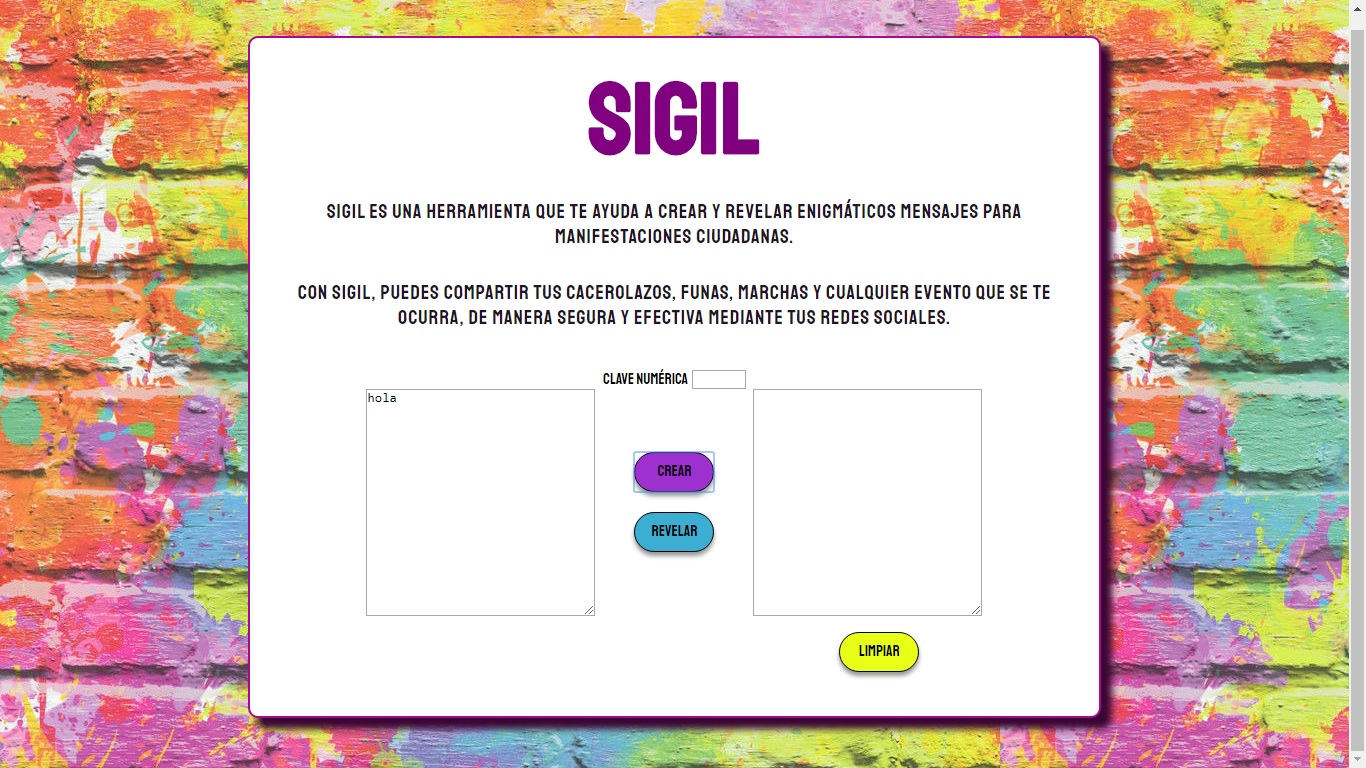
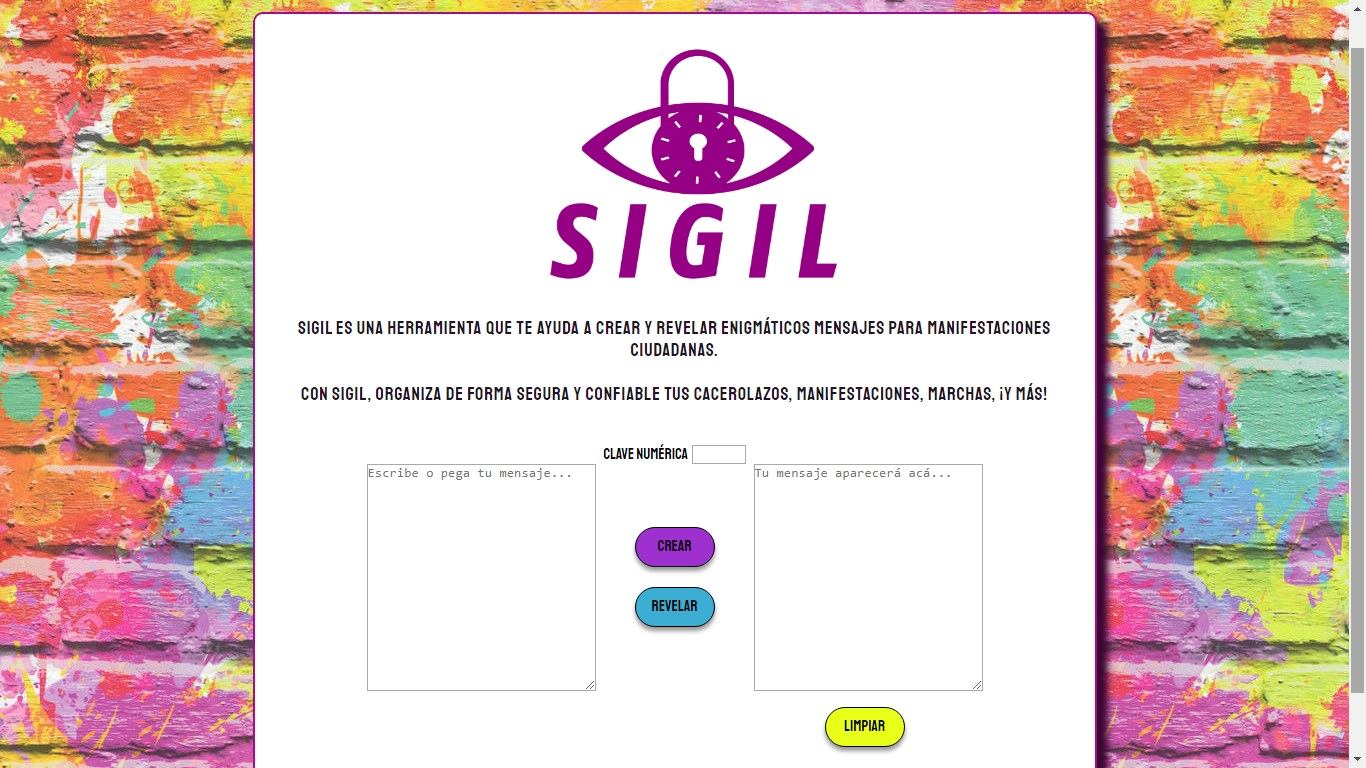
Actualizacion README y boton LIMPIAR en DOM y arreglos css

diff --git a/src/index.html b/src/index.html
@@ -13,7 +13,7 @@
 
     <!--Cabecera de bienvenida-->
     <section id="contentBox" class="content">
-    <img id="logoSigil" src="SigilFavicon.png" alt="Logo" width="300" height="233">
+    <img title="Sigil: manifestaciones seguras" id="logoSigil" src="SigilFavicon.png" alt="Logo" width="300" height="233">
 
         <!--Cabecera-->
         <div id="cabecera-txt" class="cabecera-style">
@@ -23,7 +23,7 @@
                     manifestaciones ciudadanas. 
                 </p>
                 <br>
-                <p class="appsummary2">Con Sigil, puedes organizar tus cacerolazos, manifestaciones, marchas, ¡y más!
+                <p class="appsummary2">Con Sigil, organiza de forma segura y confiable tus cacerolazos, manifestaciones, marchas, ¡y más!
                 </p>
             </header>
         </div>
@@ -57,7 +57,7 @@
                 <!--Box de texto 2-->
 
                 <div id="txtEnter2" class="text-box2">
-                    <textarea id="txtMsge2" class="box-right" cols="30" rows="15"
+                    <textarea title="Copia tu mensaje utilizando las teclas o el botón secundario del ratón." id="txtMsge2" class="box-right" cols="30" rows="15"
                         placeholder="Tu mensaje aparecerá acá..."></textarea>
                 </div>
 
@@ -66,7 +66,7 @@
             <!--Boton Limpiar-->
 
             <div id="btn-clear" class="btn-clear-style">
-                <button onclick="location.reload();" class="btn-limpiar">Limpiar</button>
+                <button title="Recarga la página." id="cleanBtn" class="btn-limpiar">Limpiar</button>
                 </div>
                 </div>
     </section>            

diff --git a/src/style.css b/src/style.css
@@ -11,11 +11,12 @@ body {
     text-align: center;
     margin-left: 32%;
     margin-bottom: 18px;
+    padding: 14px;
 }
 
 .content {
-    width: 60%;
-    height: 50%;
+    width: 800px;
+    height: 730px;
     border-radius: 10px;
     padding: 20px;
     border: 2px solid rgb(165, 10, 144);

diff --git a/src/index.js b/src/index.js
@@ -22,3 +22,11 @@ function revelar () {
     msgCoded.innerHTML = window.cipher.decode(offsetNumber.value, newTxt.value);
     
 }
+
+//Llamar funcion LIMPIAR
+document.getElementById('cleanBtn').addEventListener('click', limpiar);
+
+function limpiar () {
+    window.location.reload();
+    
+}

diff --git a/README.md b/README.md
@@ -1,8 +1,13 @@
-![Logo](./images\Sigil-logo.png)
+![Logo](images\Sigil-logo.png)
 
 # SIGIL
 
 - SIGIL es una app que permite crear y revelar mensajes avocados a diversos tipos de manifestaciones sociales.
+
+## Enlace deploy
+
+[Sigil](https://katsmunoz.github.io/SCL012-Cipher/src/index.html)
+
 
 ## Usuarios:
 La app está dirigida a jóvenes que requieran organizar diversos eventos de índole social (cacerolazos, marchas, funas, manifestaciones) de manera segura y confidencial, evitando exponerse a situaciones de juicio externo que pongan en peligro tanto la integridad de los usuarios como a la realización del evento en sí.
@@ -37,14 +42,13 @@ Screenshot prototipo 1
 
 ![sigil-figma](images\sigilFigma.jpg)
 
-### UX: Test de Usabilidad
 Después de terminar el diseño de mi app e integrar todas las características desde Figma, decidí realizar el primer test de usabilidad con usuarios reales, para comprobar si realmente se ajusta a sus necesidades en términos de diseño, facilidad de uso y navegabilidad.
 
 Después de recibir el feedback correspondiente, decidí cambiar algunos aspectos del diseño de la página. Lo más comentado fue el hecho de que el usuario no entendía la necesidad de ingresar un número, por lo que cambié la descripción del offset "número de desplazamientos" por "clave numérica" (hace más sentido tener una clave para descifrar un mensaje secreto). Además, decidí centrarlo para enfatizar la relevancia del offset (antes pasaba inadvertido), e integré alertas para que no pudieran llevarse a cabo las funciones de cifrado/descifrado si es que no se han completado los campos del box de texto izquierdo o del offset.
 
 Sumado a esto, decidí cambiar la descripción de la app que aparece debajo del título, ya que "eventos" quedaba poco claro (se confundía con eventos de Facebook). Para ello, decidí integrar ejemplos concretos para que se entendiera de forma clara el objetivo de la app.
 
-Finalmente, logré incorporar estos cambios al diseño final, junto con las funciones listas para cifrar mayúsculas, minúsculas y mantener los espacios.
+Finalmente, logré incorporar estos cambios al diseño final, junto con las funciones listas para cifrar mayúsculas, minúsculas y mantener los espacios. También incorporé un logo y un favecon para darle más identidad a la app.
 
 Screenshot diseño final
 
